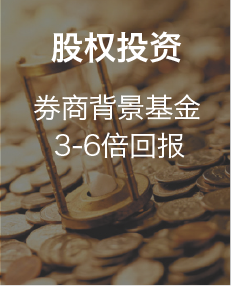
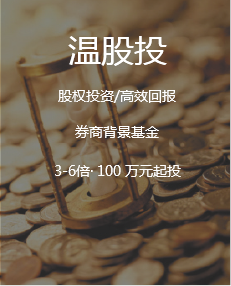
银行限额静态页面修改

Changed region(s): [[0.1515, 0.3077, 0.8788, 0.6434], [0.2121, 0.1119, 0.7879, 0.2517]]

diff --git a/wap/web/css/first.css b/wap/web/css/first.css
@@ -1,5 +1,5 @@
 .new-box {
-    margin-top:16px;
+    margin-top: 8px;
     padding:0 5px 0;
     border-top: 1px solid #e4e4e4;
     border-bottom: 1px solid #e4e4e4;
@@ -7,8 +7,8 @@
 }
 
 .padding-5 {
-    padding-left: 5px;
-    padding-right: 0;
+    padding-left: 2px;
+    padding-right: 2px;
 }
 
 .new-head {
@@ -80,17 +80,19 @@ ul.new-bottom li div {
 
 .xian {
     position: relative;
-    padding-top: 20px;
+    padding-top: 14px;
     padding-bottom: 20px;
     border-right: 1px solid #c9caca;
     color: #fe9a00;
 }
 .xian .interest-rate {
-    font-size: 38px;
+    font-size: 34px;
+    height: 44px;
+    line-height: 44px;
 }
 .xian1 {
     position: relative;
-    padding-top: 28px;
+    padding-top: 14px;
     padding-bottom: 28px;
     padding-left: 10px;
     height:84px!important;
@@ -129,11 +131,18 @@ ul.new-bottom li div {
     font-size: 22px;
 }
 
-
-
 .xian .bonus-rate {
     font-size: 20px;
     color: #ea5514;
+}
+
+.xian1 .percentage-txt,.xian .percentage-txt {
+    padding: 0;
+    margin:0;
+    font-size: 12px;
+    text-align: center;
+    height:16px;
+    color:#9fa0a0;
 }
 
 .new-bottom-rg p {
@@ -314,3 +323,8 @@ img {
     padding-right: 2px;
 }
 
+.line-box {
+    width:100%;
+    height:8px;
+    border-bottom:1px solid #e6e7e7;
+}

diff --git a/wap/web/css/chongzhi.css b/wap/web/css/chongzhi.css
@@ -20,12 +20,12 @@
     height: 50%;
 }
 .bank-content1 {
-    line-height: 66px;
+    line-height: 50px;
     font-size: 16px;
     color: #161616;
 }
 .bank-content2 {
-    line-height: 24px;
+    line-height: 18px;
 }
 
 .kahao {

diff --git a/wap/web/index.php b/wap/web/index.php
@@ -1,20 +1,151 @@
 <?php
+use common\models\product\OnlineProduct;
 
-defined('YII_DEBUG') or define('YII_DEBUG', false);
-defined('YII_ENV') or define('YII_ENV', 'prod');
+$this->title = '温都金服 - 首页';
+$this->params['breadcrumbs'][] = $this->title;
+$this->registerJsFile('/js/jquery.js', ['depends' => 'yii\web\YiiAsset','position' => 1]);
+$this->registerJsFile('/js/TouchSlide.1.1.js', ['depends' => 'yii\web\YiiAsset','position' => 1]);
+$this->registerJsFile('/js/jquery.classyloader.js', ['depends' => 'yii\web\YiiAsset','position' => 1]);
+$this->registerJsFile('/js/index.js', ['depends' => 'yii\web\YiiAsset','position' => 1]);
+$this->registerCssFile('/css/index.css', ['depends' => 'frontend\assets\WapAsset']);  //加载在depends之后
+$this->registerCssFile('/css/first.css', ['depends' => 'frontend\assets\WapAsset']);
 
-require(__DIR__ . '/../../vendor/autoload.php');
-require(__DIR__ . '/../../vendor/yiisoft/yii2/Yii.php');
-require(__DIR__ . '/../../common/config/bootstrap.php');
-require(__DIR__ . '/../config/bootstrap.php');
+$dates = Yii::$app->functions->getDateDesc($deals->start_date);
+$rate = number_format($deals->finish_rate * 100, 0);
 
-$config = yii\helpers\ArrayHelper::merge(
-    require(__DIR__ . '/../../common/config/main.php'),
-    require(__DIR__ . '/../../common/config/main-local.php'),
-    require(__DIR__ . '/../config/main.php'),
-    require(__DIR__ . '/../config/main-local.php')
-);
+?>
+<style>
+    body {
+        padding-bottom: 30px;
+    }
+</style>
 
-$application = new yii\web\Application($config);
-require(__DIR__ . '/../../common/config/di.php');//增加di引入，必须放置于此方可调用Yii::$app等
-$application->run();
+<div class="container">
+    <div class="slideBox" id="slideBox">
+        <div class="bd">
+            <ul>
+             <?php foreach($adv as $val): ?>
+                <li> <a class="pic" href="//<?= $val['link'] ?>"><img src="/upload/adv/<?= $val['image'] ?>" alt=""></a> </li>
+             <?php endforeach; ?>
+            </ul>
+        </div>
+        <div class="hd">
+            <ul></ul>
+        </div>
+    </div>
+ <!-- 添加修改部分 -->
+
+ <!-- 新手区start  -->
+    <div class="row new-box">
+        <div class="new-head" onclick="window.location.href='/deal/deal/index?xs=1'">
+            <div class="col-xs-8 col-sm-7 new-head-title">
+                <div class="arrow-rg"></div>
+                <div class="new-head-tit"><span>新手区</span><span class="new-head-txt">更短周期，更高收益</span></div>
+            </div>
+            <div class="col-xs-1 col-sm-3 "> </div>
+            <div class="col-xs-3 col-sm-2 more"><a href="/deal/deal/index?xs=1">更多》</a></div>
+        </div>
+
+        <?php if (!empty($deals->jiaxi)) { ?>
+        <ul class="row new-bottom" onclick="window.location.href='/deal/deal/detail?sn=<?= $deals->sn ?>'">
+            <li class="col-xs-6 padding-5">
+                <div class="xian1">
+                    <div class="newcomer-badge"><img src="/images/badge.png" alt="猴年加息"></div>
+                    <span class="interest-rate"><?= rtrim(rtrim(number_format($deals->yield_rate*100, 2), '0'), '.') ?>%</span>
+                    <span class="interest-rate-add">+<?= $deals->jiaxi ?>%</span>
+                    <div class="col-xs-12 percentage-txt">年化率</div>
+                </div>
+            </li>
+            <li class="col-xs-6 padding-5">
+                <div class="new-bottom-rg">
+                    <p ><span class="tishi"><?= rtrim(rtrim($deals->start_money, '0'), '.') ?>元起投，<?= $deals->getSpanDays() ?>天</span></p>
+                    <?php if (OnlineProduct::STATUS_PRE === $deals->status) { ?>
+                        <!-- 未开标 -->
+                        <a class="zhuangtai weikaibiao" href="/deal/deal/detail?sn=<?= $deals->sn ?>"><?= $dates['desc'] ?> <?= date('H:i', $deals->start_date) ?></a>
+                        <?php } elseif (OnlineProduct::STATUS_NOW === $deals->status) { ?>
+                        <!-- 进度 % -->
+                        <div style="margin:10px 3px; border:1px solid #fe9b00; ">
+                            <a class="a-progress-bg"  style="width:<?= $rate ?>%;"></a>
+                            <a class="zhuangtai a-progress" href="/deal/deal/detail?sn=<?= $deals->sn ?>"><?= $rate ?>%</a>
+                        </div>
+                        <?php } else { ?>
+                        <div class="zhuangtai" style="margin:10px 3px; background-color: #9fa0a0;">
+                            <font style="color: #fff; line-height: 40px;"><?= Yii::$app->params['productonline'][$deals->status] ?></font>
+                        </div>
+                    <?php } ?>
+                </div>
+            </li>
+        </ul>
+        <?php } else { ?>
+        <ul class="row new-bottom" onclick="window.location.href='/deal/deal/detail?sn=<?= $deals->sn ?>'">
+            <li class="col-xs-6 padding-5">
+                <div class="xian">
+                    <span class="interest-rate"><?= rtrim(rtrim(number_format($deals->yield_rate*100, 2), '0'), '.') ?>%</span>
+                    <div class="col-xs-12 percentage-txt">年化率</div>
+                </div>
+            </li>
+            <li class="col-xs-6 padding-5">
+                <div class="new-bottom-rg">
+                    <p><span class="tishi"><?= rtrim(rtrim($deals->start_money, '0'), '.') ?>元起投，<?= $deals->getSpanDays() ?>天</span></p>
+                    <?php if (OnlineProduct::STATUS_PRE === $deals->status) { ?>
+                        <!-- 未开标 -->
+                        <a class="zhuangtai weikaibiao" href="/deal/deal/detail?sn=<?= $deals->sn ?>"><?= $dates['desc'] ?> <?= date('H:i', $deals->start_date) ?></a>
+                        <?php } elseif (OnlineProduct::STATUS_NOW === $deals->status) { ?>
+                        <!-- 进度 % -->
+                        <div style="margin:10px 3px; border:1px solid #fe9b00; ">
+                            <a class="a-progress-bg"  style="width:<?= $rate ?>%;"></a>
+                            <a class="zhuangtai a-progress" href="/deal/deal/detail?sn=<?= $deals->sn ?>"><?= $rate ?>%</a>
+                        </div>
+                        <?php } else { ?>
+                        <div class="zhuangtai" style="margin:10px 3px; background-color: #9fa0a0;">
+                            <font style="color: #fff; line-height: 40px;"><?= Yii::$app->params['productonline'][$deals->status] ?></font>
+                        </div>
+                    <?php } ?>
+                </div>
+            </li>
+        </ul>
+        <?php } ?>
+    </div>
+<!--  新手区end  -->
+    <div class="line-box" ></div>
+<!-- 理财区start -->
+    <div class="licai-box">
+        <div class="licai-head">
+            <div class="col-xs-8 col-sm-7 new-head-title">
+                <div class="arrow-rg"></div>
+                <div class="new-head-tit"><span>理财区</span><span class="new-head-txt">固定收益，稳定本息</span></div>
+            </div>
+            <div class="col-xs-4 col-sm-5"></div>
+        </div>
+        <div style="clear: both;"></div>
+        <div class="row margin-add">
+            <div class="col-xs-4 padding-clear"><a href="/deal/deal/index?cat=1"><img src="/images/type1.png" alt="短期产品" /></a> </div>
+            <div class="col-xs-4 padding-clear"><a href="/deal/deal/index?cat=2"><img src="/images/type2.png" alt="政府平台" /></a> </div>
+            <div class="col-xs-4 padding-clear"><a href="/order/booking/detail?pid=1"><img src="/images/type3.png" alt="股权投资" /></a> </div>
+        </div>
+
+    </div>
+    <!-- 理财区end -->
+</div>
+
+<!--   end  -->
+<!--footer-->
+    <div class="row navbar-fixed-bottom footer">
+        <div class="col-xs-4 footer-title">
+            <div class="footer-inner">
+                <a href="/" class="shouye1"><span class="shouye"></span>首页</a>
+            </div>
+        </div>
+        <div class="col-xs-4 footer-title">
+            <div class="footer-inner1">
+                <a href="/deal/deal/index"><span class="licai"></span>理财</a>
+            </div>
+        </div>
+        <div class="col-xs-4 footer-title">
+            <div class="footer-inner2">
+                <a href="/user/user"><span class="zhanghu"></span>账户</a>
+            </div>
+        </div>
+    </div>
+
+

diff --git a/wap/modules/user/views/userbank/bankxiane.php b/wap/modules/user/views/userbank/bankxiane.php
@@ -6,29 +6,31 @@
         padding-bottom: 50px;
     }
     h1 {
-        font-size: 32px;
+        font-size: 16px;
         color: #595757;
-        margin-top: 42px;
-        margin-bottom: 46px;
-        margin-right: 64px;
+        padding-top: 14px;
+        margin-bottom: 18px;
+        overflow: hidden;
     }
     .qpay-quota {
-        padding: 1px 64px;
+        padding-left: 26px;
+        padding-right: 26px;
         background-color: #ffffff;
     }
     .qpay-quota table {
         width: 100%;
-        font-size: 28px;
+        font-size: 14px;
         color: #595757;
     }
     .qpay-quota th, td {
         line-height: 2em;
         text-align: center;
-        border: 2px solid #9fa0a0;
+        border: 1px solid #9fa0a0;
     }
     .desc {
         list-style: decimal;
-        margin: 0px 57px;
+        width: 86%;
+        margin: 0 auto;
     }
  </style>
  <div class="qpay-quota">
@@ -136,7 +138,7 @@
         </tr>
     </table>
     <h1>提示：</h1>
-    <ol style="font-size: 28px; color: #737373;">
+    <ol style="font-size: 14px; color: #737373;padding-bottom:30px;">
         <li class="desc">根据同卡进出原则，用户只能使用唯一一张绑定的银行卡进行充值和提现</li>
         <li class="desc">暂不支持变更绑定银行卡，如需帮助，请联系客服</li>
         <li style="text-align: right; color: #f44639"><img src="" alt=""><?= Yii::$app->params['contact_tel'] ?></li>

diff --git a/wap/modules/user/views/userbank/recharge.php b/wap/modules/user/views/userbank/recharge.php
@@ -22,15 +22,15 @@ $this->registerJsFile('/js/common.js', ['depends' => 'yii\web\YiiAsset','positio
         <div class="row bank-card">
             <div class="col-xs-2 bank-img"><img src="/images/bankicon/<?= $user_bank->bank_id ?>.png" alt=""/></div>
             <div class="col-xs-8 bank-content">
-                <div class="bank-content1">
+                <div class="bank-content1" style="font-size: 14px;">
                     <?= $user_bank->bank_name ?>
                     <?php if ($param = Yii::$app->params['bank'][$user_bank->bank_id]['limit']) { ?>
-                    (限额<?= $param['single'] ?>万/笔，<?= $param['day'] ?>万/日)
+                    <span style="font-size: 12px;">(限额<?= $param['single'] ?>万/笔，<?= $param['day'] ?>万/日)</span>
                     <?php } ?>
                 </div>
                 <div class="bank-content2">
                     尾号<?= $user_bank->card_number?substr($user_bank->card_number, -4):"" ?> 储蓄卡
-                    &emsp;银行预留手机号 <?= substr_replace(Yii::$app->user->identity->mobile,'****',3,-4); ?>
+                    </br>银行预留手机号 <?= substr_replace(Yii::$app->user->identity->mobile,'****',3,-4); ?>
                 </div>
             </div>
             <div class="col-xs-2"></div>

diff --git a/wap/modules/user/views/userbank/tixian.php b/wap/modules/user/views/userbank/tixian.php
@@ -42,7 +42,7 @@ $this->registerJsFile('/js/common.js', ['depends' => 'yii\web\YiiAsset','positio
         <!--限额提醒-->
         <div class="row dan" style="padding-top: 1px;">
                     <div class="hidden-xs col-sm-1"></div>
-                    <div class="col-xs-10 col-sm-10" style="padding: 0">
+                    <div class="col-xs-12 col-sm-10" style="padding: 0">
                         <span>(每笔提现扣除2元手续费,最低提现金额12元)</span>
                     </div>
                     <div class="hidden-xs col-sm-1"></div>
